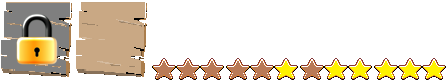
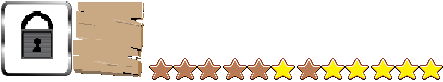
update game stars on levels menu

Changed region(s): [[0.2054, 0.0244, 0.9684, 0.9756], [0.0, 0.0, 0.2348, 0.9512], [0.2054, 0.7317, 0.2348, 0.7561]]

diff --git a/demo_6/js/LevelSelect.js b/demo_6/js/LevelSelect.js
@@ -1,22 +1,14 @@
-/* your game’s welcome screen. 
-After the preload state, all the game images are already loaded into the memory, so they can quickly accessed.*/
-//scrolling background and some text.
+// https://github.com/BdR76/phaserlevelselect
 
 var DinoEggs = DinoEggs || {}; 
 
-// -------------------------------------
-// START THE GAME
-// -------------------------------------
-var CANVAS_WIDTH = 800;
-var CANVAS_HEIGHT = 600;
 
-var PLAYER_DATA = null; // just declare as global variable for now
 DinoEggs.LevelSelect = function(){
     "use strict";
     Phaser.State.call(this);
     
-	// define needed variables for LevelSelect
-	this.holdicons = [];
+    DinoEggs.PLAYER_DATA = null;
+	this.levelIcons = [];
 };
 
 DinoEggs.LevelSelect.prototype = Object.create(Phaser.State.prototype);
@@ -26,68 +18,56 @@ DinoEggs.LevelSelect.prototype.constructor = DinoEggs.LevelSelect;
 DinoEggs.LevelSelect.prototype = {
 
 	preload: function() {
-		this.game.load.spritesheet('levelselecticons', 'assets/levelselecticons.png', 96, 96);
-		this.game.load.bitmapFont('font72', 'assets/font72.png', 'assets/font72.xml'); // created with http://kvazars.com/littera/
-		
-		this.initProgressData();
+        //this.game.load.spritesheet('levelselecticons', 'assets/levelselecticons.png', 96, 96);
+		this.game.load.spritesheet('levelIcons', 'assets/level_icons.png', 73.83, 82);		
+		this.initLevelData();
 	},
 
 	create: function() {
 		this.game.stage.backgroundColor = 0x80a0ff;
-		this.game.add.bitmapText(256, 24, 'font72', 'Select a level!', 48);
+        this.game.add.text(256, 24,'Select a level', {font:"48px Arial"});
 
 		this.createLevelIcons();
 		this.animateLevelIcons();
 	},
 
 	update: function() {
-		// nothing to do but wait until player selects a level
-	},
-
-	render: function() {
-		// display some debug info..?
 	},
 	
-	initProgressData: function() {
+	initLevelData: function() {
 
-		// array might be undefined at first time start up
-		if (!PLAYER_DATA) {
-			// retrieve from local storage (to view in Chrome, Ctrl+Shift+J -> Resources -> Local Storage)
-			var str = window.localStorage.getItem('mygame_progress');
-			
-			// error checking, localstorage might not exist yet at first time start up
+		if (!DinoEggs.PLAYER_DATA) {
+			var str = window.localStorage.getItem('DinoGame_Progress');
 			try {
-				PLAYER_DATA = JSON.parse(str);
+				DinoEggs.PLAYER_DATA = JSON.parse(str);
 			} catch(e){
-				PLAYER_DATA = []; //error in the above string(in this case,yes)!
+				DinoEggs.PLAYER_DATA = [];
 			};
-			// error checking just to be sure, if localstorage contains something else then a JSON array (hackers?)
-			if (Object.prototype.toString.call( PLAYER_DATA ) !== '[object Array]' ) {
-				PLAYER_DATA = [];
+			if (Object.prototype.toString.call( DinoEggs.PLAYER_DATA ) !== '[object Array]' ) {
+				DinoEggs.PLAYER_DATA = [];
 			};
 		};
 	},
 
 	createLevelIcons: function() {
-		var levelnr = 0;
+		var levelNumber = 0;
 
 		for (var y=0; y < 3; y++) {
 			for (var x=0; x < 4; x++) {
 				// next level
-				levelnr = levelnr + 1;
+				levelNumber = levelNumber + 1;
 				
 				// check if array not yet initialised
-				if (typeof PLAYER_DATA[levelnr-1] !== 'number') {
-					// value is null or undefined, i.e. array not defined or too short between app upgrades with more levels
-					if (levelnr == 1) {
-						PLAYER_DATA[levelnr-1] = 0; // level 1 should never be locked
+				if (typeof DinoEggs.PLAYER_DATA[levelNumber-1] !== 'number') {
+					if (levelNumber == 1) {
+						DinoEggs.PLAYER_DATA[levelNumber-1] = 0; // level 1 should never be locked
 					} else {
-						PLAYER_DATA[levelnr-1] = -1;
+						DinoEggs.PLAYER_DATA[levelNumber-1] = -1;
 					};
 				};
 
 				// player progress info for this level
-				var playdata = PLAYER_DATA[levelnr-1];
+				var playdata = DinoEggs.PLAYER_DATA[levelNumber-1];
 
 				// decide which icon
 				var isLocked = true; // locked
@@ -96,7 +76,7 @@ DinoEggs.LevelSelect.prototype = {
 				// check if level is unlocked
 				if (playdata > -1) {
 					isLocked = false; // unlocked
-					if (playdata < 4) {stars = playdata;}; // 0..3 stars
+					if (playdata < 4) {stars = playdata;}; // 0 to 3 stars
 				};
 
 				// calculate position on screen
@@ -104,11 +84,11 @@ DinoEggs.LevelSelect.prototype = {
 				var ypos = 120 + (y*128);
 				
 				// create icon
-				this.holdicons[levelnr-1] = this.createLevelIcon(xpos, ypos, levelnr, isLocked, stars);
-				var backicon = this.holdicons[levelnr-1].getAt(0);
+				this.levelIcons[levelNumber-1] = this.createLevelIcon(xpos, ypos, levelNumber, isLocked, stars);
+				var backicon = this.levelIcons[levelNumber-1].getAt(0);
 
-				// keep level nr, used in onclick method
-				backicon.health = levelnr;
+				// keep levelNumber, used in onclick method
+				backicon.health = levelNumber;
 
 				// input handler
 				backicon.inputEnabled = true;
@@ -120,7 +100,7 @@ DinoEggs.LevelSelect.prototype = {
 	// -------------------------------------
 	// Add level icon buttons
 	// -------------------------------------
-	createLevelIcon: function(xpos, ypos, levelnr, isLocked, stars) {
+	createLevelIcon: function(xpos, ypos, levelNumber, isLocked, stars) {
 
 		// create new group
 		var IconGroup = this.game.add.group();
@@ -136,13 +116,13 @@ DinoEggs.LevelSelect.prototype = {
 		if (isLocked == false) {frame = 1};
 		
 		// add background
-		var icon1 = this.game.add.sprite(0, 0, 'levelselecticons', frame);
+		var icon1 = this.game.add.sprite(0, 0, 'levelIcons', frame);
 		IconGroup.add(icon1);
 
 		// add stars, if needed
 		if (isLocked == false) {
-			var txt = this.game.add.bitmapText(24, 16, 'font72', ''+levelnr, 48);
-			var icon2 = this.game.add.sprite(0, 0, 'levelselecticons', (2+stars));
+            var txt = this.game.add.text(24, 16,''+levelNumber, {font:"45px Arial"});
+			var icon2 = this.game.add.sprite(0, 0, 'levelIcons', (2+stars));
 			
 			IconGroup.add(txt);
 			IconGroup.add(icon2);
@@ -154,11 +134,11 @@ DinoEggs.LevelSelect.prototype = {
 	onSpriteDown: function(sprite, pointer) {
 
 		// retrieve the iconlevel
-		var levelnr = sprite.health;
+		var levelNumber = sprite.health;
 
-		if (PLAYER_DATA[levelnr-1] < 0) {
+		if (DinoEggs.PLAYER_DATA[levelNumber-1] < 0) {
 			// indicate it's locked by shaking left/right
-			var IconGroup = this.holdicons[levelnr-1];
+			var IconGroup = this.levelIcons[levelNumber-1];
 			var xpos = IconGroup.xOrg;
 
 			var tween = this.game.add.tween(IconGroup)
@@ -171,13 +151,13 @@ DinoEggs.LevelSelect.prototype = {
 				.start();
 		} else {
 			// simulate button press animation to indicate selection
-			var IconGroup = this.holdicons[levelnr-1];
+			var IconGroup = this.levelIcons[levelNumber-1];
 			var tween = this.game.add.tween(IconGroup.scale)
 				.to({ x: 0.9, y: 0.9}, 100, Phaser.Easing.Linear.None)
 				.to({ x: 1.0, y: 1.0}, 100, Phaser.Easing.Linear.None)
 				.start();
 				
-			// it's a little tricky to pass selected levelnr to callback function, but this works:
+			// it's a little tricky to pass selected levelNumber to callback function, but this works:
 			tween.onComplete.add(function(){this.onLevelSelected(sprite.health);}, this);
 		};
 	},
@@ -185,9 +165,9 @@ DinoEggs.LevelSelect.prototype = {
 	animateLevelIcons: function() {
 
 		// slide all icons into screen
-		for (var i=0; i < this.holdicons.length; i++) {
+		for (var i=0; i < this.levelIcons.length; i++) {
 			// get variables
-			var IconGroup = this.holdicons[i];
+			var IconGroup = this.levelIcons[i];
 			IconGroup.y = IconGroup.y + 600;
 			var y = IconGroup.y;
 
@@ -196,10 +176,13 @@ DinoEggs.LevelSelect.prototype = {
 		};
 	},
 
-	onLevelSelected: function(levelnr) {
-		// pass levelnr variable to 'Game' state
-		//this.game.state.states['game']._levelNumber = levelnr;
-		
-		this.state.start('Game');
+	onLevelSelected: function(levelNumber) {
+		// pass levelNumber variable to 'Game' state
+		//this.game.state.states['game']._levelNumber = levelNumber;
+        console.log(levelNumber);
+        console.log("player data");
+        console.log(DinoEggs.PLAYER_DATA);
+		if(levelNumber==1)
+		  this.state.start('Game');
 	}
 };

diff --git a/demo_6/js/Game.js b/demo_6/js/Game.js
@@ -4,6 +4,8 @@ var DinoEggs = DinoEggs || {};
 DinoEggs.Game = function(){
     Phaser.State.call(this);
     
+    this._levelNumber = 1;
+    
     this._eggsGroup = null;
     this._rocksGroup = null;
     this._platforms = null;
@@ -359,6 +361,10 @@ DinoEggs.Game.prototype = {
         this.clearGMCanvas(this.matchExpCanvas);
         var gameOverText = this.game.add.text( this.game.world.width*0.5 - 50, this.game.world.height*0.5 - 40, 'Score:' + this.score, { fontSize: '22px', fill: '#000' });
         
+        var stars = this.endStar();
+        if (stars>1){
+            this.updatePlayerData(stars);
+        }        
         var restartButton = this.game.add.button(this.game.world.width*0.5, this.game.world.height*0.5 + 20, 'restart', function(){
             this.state.start('Game');
         }, this.game, 1, 0, 2);
@@ -368,9 +374,26 @@ DinoEggs.Game.prototype = {
             this.state.start('MainMenu');
         }, this.game, 1, 0, 2);
         mainMenuButton.anchor.set(0.5);
-        this.endStar();
+        
         this.music.stop();
+
     },
+    updatePlayerData: function(stars) {
+		// set number of stars for this level
+		DinoEggs.PLAYER_DATA[this._levelNumber-1] = stars;
+
+		// unlock next level
+		if (this._levelNumber < DinoEggs.PLAYER_DATA.length) {
+			if (DinoEggs.PLAYER_DATA[this._levelNumber] < 0) { // currently locked (=-1)
+				DinoEggs.PLAYER_DATA[this._levelNumber] = 0; // set unlocked, 0 stars
+			}
+		};
+		// and write to local storage
+		window.localStorage.setItem('DinoGame_Progress', JSON.stringify(DinoEggs.PLAYER_DATA));
+        
+        console.log("player data");
+        console.log(DinoEggs.PLAYER_DATA);
+	},   
     
     endStar: function() {
         var starPostion =0;
@@ -381,17 +404,18 @@ DinoEggs.Game.prototype = {
             starPostion = starPostion + 20;
             this.score = this.score - scoreBase; 
             starNumber++;
-            if (starNumber == 5){
+            if (starNumber == 3){
                 break;
             }
         }
-        var greyStar = 5 - starNumber;
+        var greyStar = 3 - starNumber;
         while(greyStar > 0){
             var star1 =  this.game.add.sprite(this.game.world.width*0.5 - 50 + starPostion, this.game.world.height*0.5 - 80, 'star');
             star1.tint= 0x232323;
             starPostion = starPostion + 20;
             greyStar--;
         }
+        return starNumber;
     },
     matchEquationOnRocks: function(equation){
         var matchedEqIndexArray = [];

diff --git a/demo_6/index.html b/demo_6/index.html
@@ -9,7 +9,7 @@
     <script src = "js/Boot.js"></script>
     <script src = "js/Preload.js"></script>
     <script src = "js/MainMenu.js"></script>
-    <script src = "js/LevelSelectNew.js"></script>
+    <script src = "js/LevelSelect.js"></script>
     <script src = "js/Game.js"></script>
     <script src = "js/main.js"></script>
     <style type="text/css">
